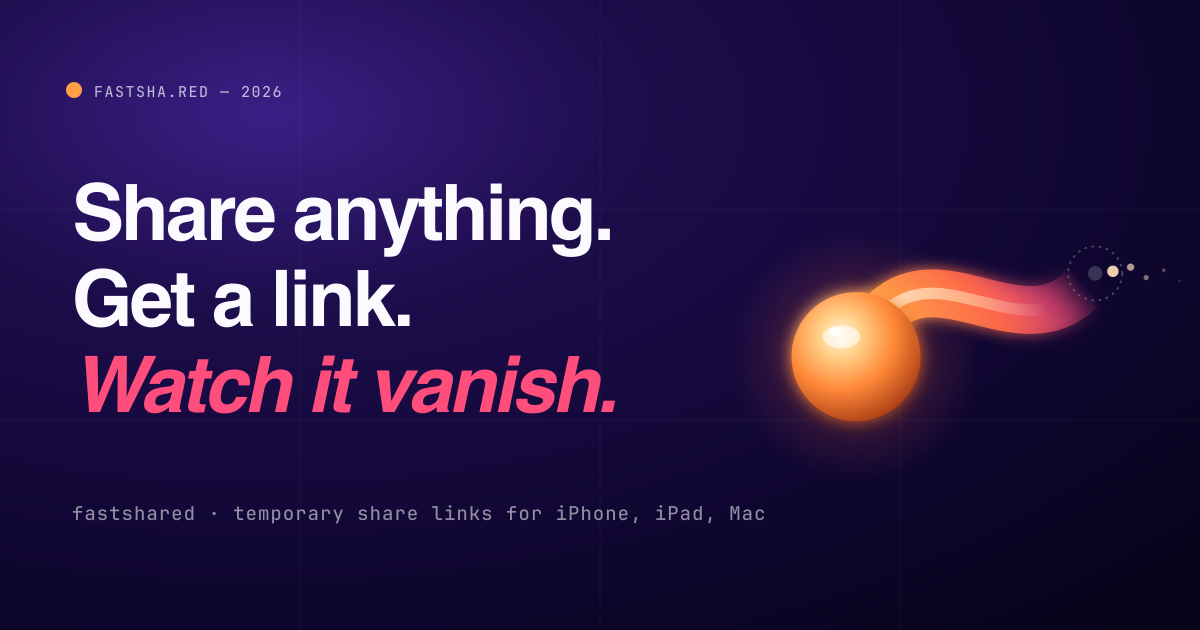
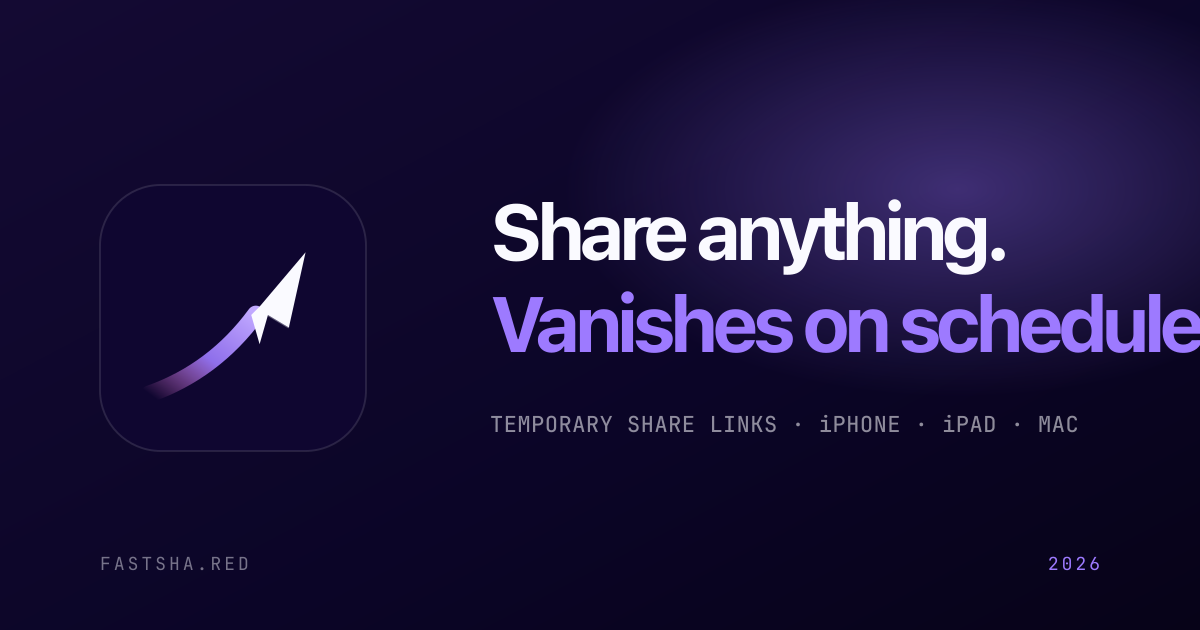
feat(web): plane-arc hero, violet accent, drop GSAP
Landing page now speaks the new brand. The Hero is a cinematic two-column
stage with the Plane + Arc (Refined) mark drawn right of the headline.

Hero animation (CSS-only, four beats on page load):
- Frame fades in (0.3s).
- Arc draws itself via stroke-dashoffset over 1.2s with
  cubic-bezier(0.16, 1, 0.3, 1).
- Violet-hot particle pulses once at the arc origin (0.9s).
- White plane dart flies in from the top-right (0.6s at 1.0s delay).
prefers-reduced-motion: reduce disables every frame and renders the
final state immediately.

Changes:
- Hero.astro: rewritten. Eyebrow "FASTSHARED · 2026" in mono violet,
  headline "Share anything. / Vanishes / on schedule." with "Vanishes"
  in --violet-hot, tech annotation strip "SIGNED REDIRECT · 60s ·
  DEFAULT EXPIRY · 24h · APEX · fastsha.red" below the CTAs.
- PlaneArc.astro: gradient rewired to violet fade → hot → soft, added
  class hooks (planearc-frame/arc/plane/particle) + origin particle.
- Nav.astro: switched to /brand/logo-horizontal.svg, hover ring now
  --violet-hot.
- BrandLockup.astro: accent dot violet.
- global.css: --violet-hot/soft/fade/dust tokens, ::selection and
  :focus-visible on violet-hot (2px outline / 4px offset), .btn-primary
  repainted violet mono-uppercase, .btn-ghost hover violet,
  .mono-eyebrow component, four new @keyframes (pa-frame-in,
  pa-arc-draw, pa-plane-in, pa-particle) + reduced-motion overrides.
- tailwind.config.mjs: violet.hot/soft/fade/dust scale.
[…]

diff --git a/web/src/styles/global.css b/web/src/styles/global.css
@@ -12,12 +12,18 @@
 :root {
   --ink: #070318;
   --nightshade: #1d0d4b;
-  --violet: #3b1f86;
+  --deep-violet: #3b1f86;
   --amber: #ff9f47;
   --ember: #ffc487;
   --coral: #ff4e7c;
   --cream: #ffe0b8;
   --milk: #fafaff;
+
+  /* Violet accent — Plane + Arc (Refined) default */
+  --violet-hot: #9d7aff;
+  --violet-soft: #c1a9ff;
+  --violet-fade: #ff7ad1;
+  --violet-dust: #e0d4ff;
 
   --rule: rgba(255, 255, 255, 0.08);
   --rule-soft: rgba(255, 255, 255, 0.04);
@@ -89,13 +95,13 @@
   }
 
   ::selection {
-    background: var(--amber);
+    background: var(--violet-hot);
     color: var(--ink);
   }
 
-  /* Keyboard focus — amber ring, clearly visible */
+  /* Keyboard focus — violet-hot ring, clearly visible */
   :focus-visible {
-    outline: 2px solid var(--amber);
+    outline: 2px solid var(--violet-hot);
     outline-offset: 4px;
     border-radius: 2px;
   }
@@ -153,21 +159,23 @@
     display: inline-flex;
     align-items: center;
     gap: 10px;
-    padding: 14px 26px;
-    background: var(--amber);
+    padding: 16px 28px;
+    background: var(--violet-hot);
     color: var(--ink);
-    font-family: var(--display);
+    font-family: var(--mono);
     font-weight: 600;
-    font-size: 16px;
-    letter-spacing: -0.01em;
+    font-size: 13px;
+    letter-spacing: 0.12em;
+    text-transform: uppercase;
     border-radius: 999px;
-    transition: transform 0.25s cubic-bezier(0.16, 1, 0.3, 1), box-shadow 0.25s cubic-bezier(0.16, 1, 0.3, 1);
-    box-shadow: 0 10px 40px -12px rgba(255, 159, 71, 0.6);
+    transition: transform 0.25s cubic-bezier(0.16, 1, 0.3, 1), box-shadow 0.25s cubic-bezier(0.16, 1, 0.3, 1), background 0.25s;
+    box-shadow: 0 10px 40px -12px rgba(157, 122, 255, 0.65);
   }
 
   .btn-primary:hover {
     transform: translateY(-2px);
-    box-shadow: 0 18px 48px -10px rgba(255, 159, 71, 0.7);
+    background: var(--violet-soft);
+    box-shadow: 0 18px 52px -10px rgba(157, 122, 255, 0.8);
   }
 
   .btn-ghost {
@@ -175,18 +183,28 @@
     align-items: center;
     gap: 8px;
     color: var(--milk);
-    font-family: var(--display);
+    font-family: var(--mono);
     font-weight: 500;
-    font-size: 16px;
-    letter-spacing: -0.01em;
+    font-size: 13px;
+    letter-spacing: 0.12em;
+    text-transform: uppercase;
     padding: 14px 6px;
     border-bottom: 1px solid transparent;
     transition: border-color 0.25s cubic-bezier(0.16, 1, 0.3, 1), color 0.25s;
   }
 
   .btn-ghost:hover {
-    border-bottom-color: var(--amber);
-    color: var(--amber);
+    border-bottom-color: var(--violet-hot);
+    color: var(--violet-hot);
+  }
+
+  .mono-eyebrow {
+    font-family: var(--mono);
+    font-weight: 600;
+    font-size: 12px;
+    letter-spacing: 0.18em;
+    text-transform: uppercase;
+    color: var(--violet-hot);
   }
 
   .mono-caption {
@@ -204,18 +222,61 @@
 }
 
 /* ============================================================
-   PlaneArc — v3 brand mark arc-draw animation
+   PlaneArc — Plane + Arc (Refined) — full cinematic sequence
    Triggered via [data-animate="planearc"] on the wrapper.
+   Four steps:
+     1. Frame fades in (0.3s, ease).
+     2. Arc draws via stroke-dashoffset (1.2s spring).
+     3. Plane flies in from top-right (0.6s, ending shortly after arc).
+     4. Particle pulses once at the arc origin (0.9s loop once).
    ============================================================ */
-@keyframes arc-draw {
+@keyframes pa-frame-in {
+  from { opacity: 0; transform: scale(0.98); }
+  to   { opacity: 1; transform: scale(1); }
+}
+
+@keyframes pa-arc-draw {
   from { stroke-dashoffset: 200; }
   to   { stroke-dashoffset: 0; }
+}
+
+@keyframes pa-plane-in {
+  from {
+    opacity: 0;
+    transform: translate(42px, -42px) scale(1.1);
+  }
+  to {
+    opacity: 1;
+    transform: translate(0, 0) scale(1.1);
+  }
+}
+
+@keyframes pa-particle {
+  0%   { opacity: 0; r: 2; }
+  35%  { opacity: 1; r: 8; }
+  100% { opacity: 0; r: 12; }
+}
+
+[data-animate="planearc"] .planearc-frame {
+  opacity: 0;
+  animation: pa-frame-in 0.3s cubic-bezier(0.16, 1, 0.3, 1) 0s forwards;
 }
 
 [data-animate="planearc"] .planearc-arc {
   stroke-dasharray: 200;
   stroke-dashoffset: 200;
-  animation: arc-draw 1.4s cubic-bezier(0.16, 1, 0.3, 1) 0.15s forwards;
+  animation: pa-arc-draw 1.2s cubic-bezier(0.16, 1, 0.3, 1) 0.2s forwards;
+}
+
+[data-animate="planearc"] .planearc-plane {
+  opacity: 0;
+  transform-origin: 0 0;
+  animation: pa-plane-in 0.6s cubic-bezier(0.16, 1, 0.3, 1) 1.0s forwards;
+}
+
+[data-animate="planearc"] .planearc-particle {
+  opacity: 0;
+  animation: pa-particle 0.9s cubic-bezier(0.22, 1, 0.36, 1) 0.25s forwards;
 }
 
 /* FAQ details disclosure */
@@ -391,8 +452,14 @@ details.faq-item .faq-body {
     scroll-behavior: auto !important;
   }
 
-  [data-animate="planearc"] .planearc-arc {
+  [data-animate="planearc"] .planearc-frame,
+  [data-animate="planearc"] .planearc-arc,
+  [data-animate="planearc"] .planearc-plane,
+  [data-animate="planearc"] .planearc-particle {
     animation: none !important;
-    stroke-dashoffset: 0 !important;
   }
+  [data-animate="planearc"] .planearc-frame,
+  [data-animate="planearc"] .planearc-plane { opacity: 1 !important; transform: none !important; }
+  [data-animate="planearc"] .planearc-arc { stroke-dashoffset: 0 !important; }
+  [data-animate="planearc"] .planearc-particle { opacity: 0 !important; }
 }

diff --git a/web/src/scripts/hero.ts b/web/src/scripts/hero.ts
@@ -1,11 +1,10 @@
 /**
- * Hero orchestration (v3).
+ * Lean client-side hero orchestration.
  *
- * The v3 brand mark (PlaneArc) uses a CSS-only stroke-dashoffset animation
- * (see global.css @keyframes arc-draw) so no JS is needed for the mark itself.
- *
- * This script now only wires the Dynamic Island state rotator and respects
- * prefers-reduced-motion by locking to the "completed" resting state.
+ * The Plane + Arc (Refined) hero animation is pure CSS (see global.css,
+ * `[data-animate="planearc"]` selectors). Reduced-motion is also handled
+ * there. This file only wires the Dynamic Island state rotator used
+ * further down the page.
  */
 
 type El = Element | null;
@@ -13,24 +12,26 @@ type El = Element | null;
 function mount(): void {
   const prefersReducedMotion = window.matchMedia('(prefers-reduced-motion: reduce)').matches;
 
-  // ----- Dynamic Island state rotator (2s per state) -----
+  // Dynamic Island — rotate through the three states every 2s.
   const island: El = document.querySelector('[data-island-root]');
-  if (island && !prefersReducedMotion) {
-    const states = island.querySelectorAll<HTMLElement>('.island-state');
-    if (states.length > 0) {
-      let i = 0;
-      states[i]!.classList.add('is-active');
-      setInterval(() => {
-        states[i]!.classList.remove('is-active');
-        i = (i + 1) % states.length;
-        states[i]!.classList.add('is-active');
-      }, 2000);
-    }
-  } else if (island && prefersReducedMotion) {
-    // Show the "completed" state as the resting frame under reduced motion.
+  if (!island) return;
+
+  const states = island.querySelectorAll<HTMLElement>('.island-state');
+  if (states.length === 0) return;
+
+  if (prefersReducedMotion) {
     const completed = island.querySelector<HTMLElement>('[data-state="completed"]');
     completed?.classList.add('is-active');
+    return;
   }
+
+  let i = 0;
+  states[i]!.classList.add('is-active');
+  window.setInterval(() => {
+    states[i]!.classList.remove('is-active');
+    i = (i + 1) % states.length;
+    states[i]!.classList.add('is-active');
+  }, 2000);
 }
 
 if (document.readyState === 'loading') {
